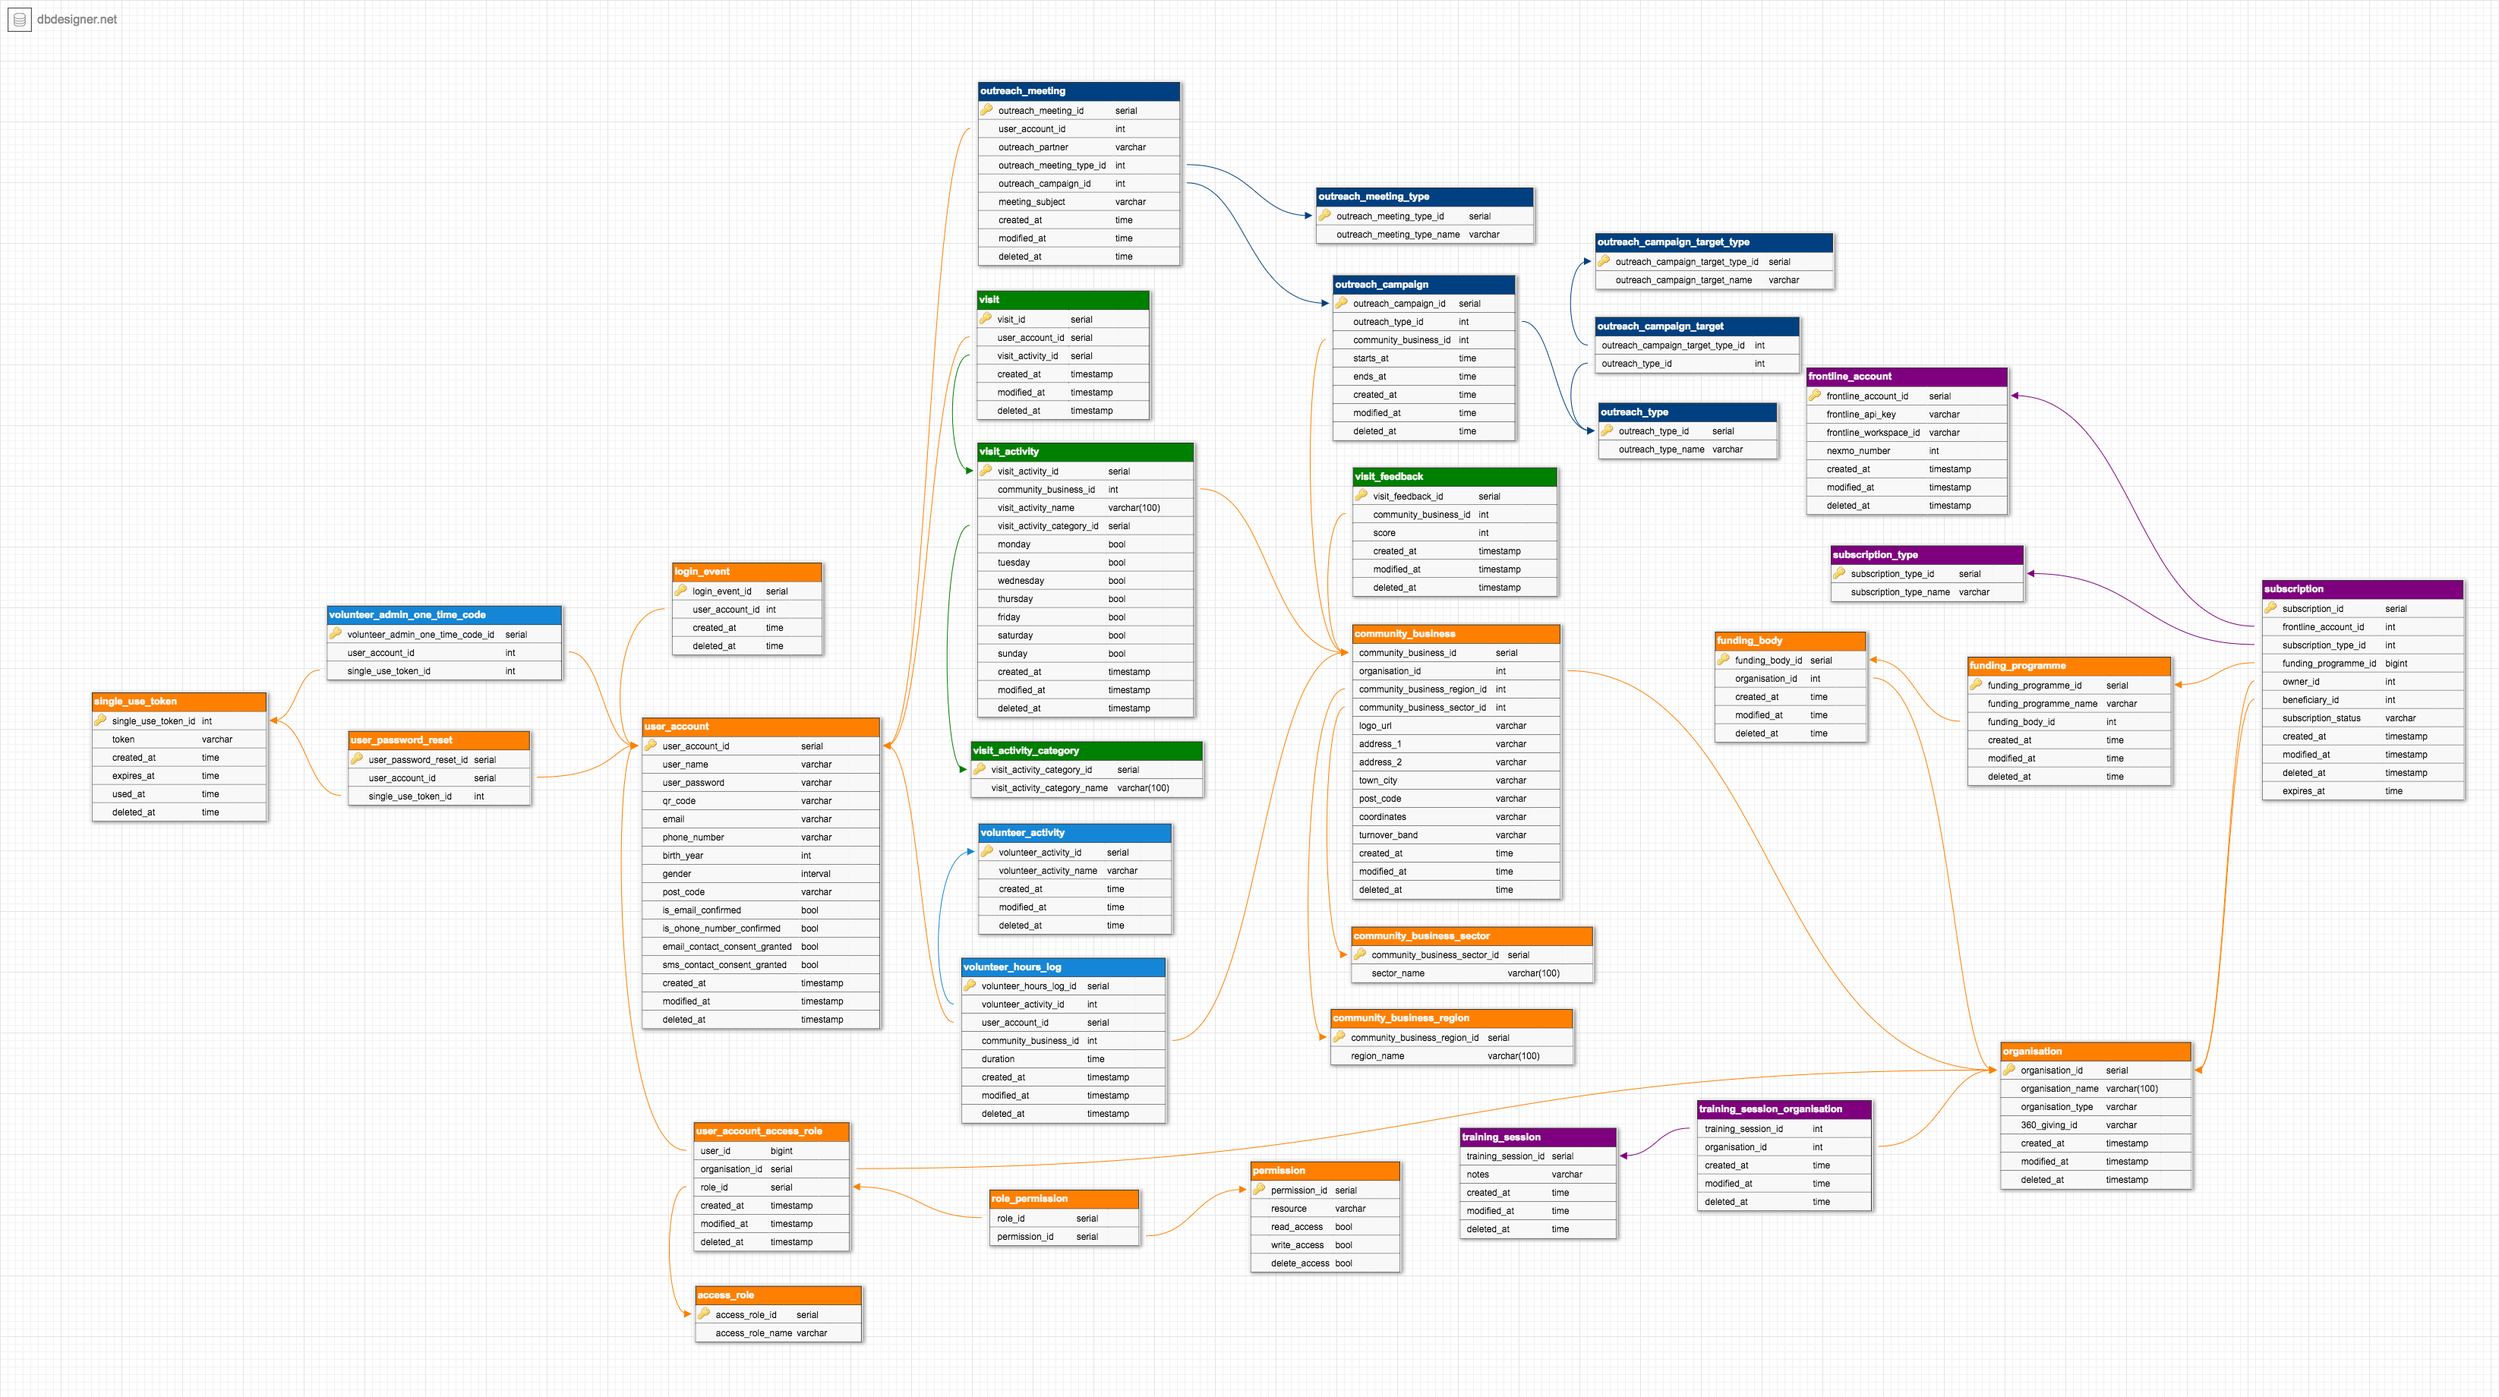
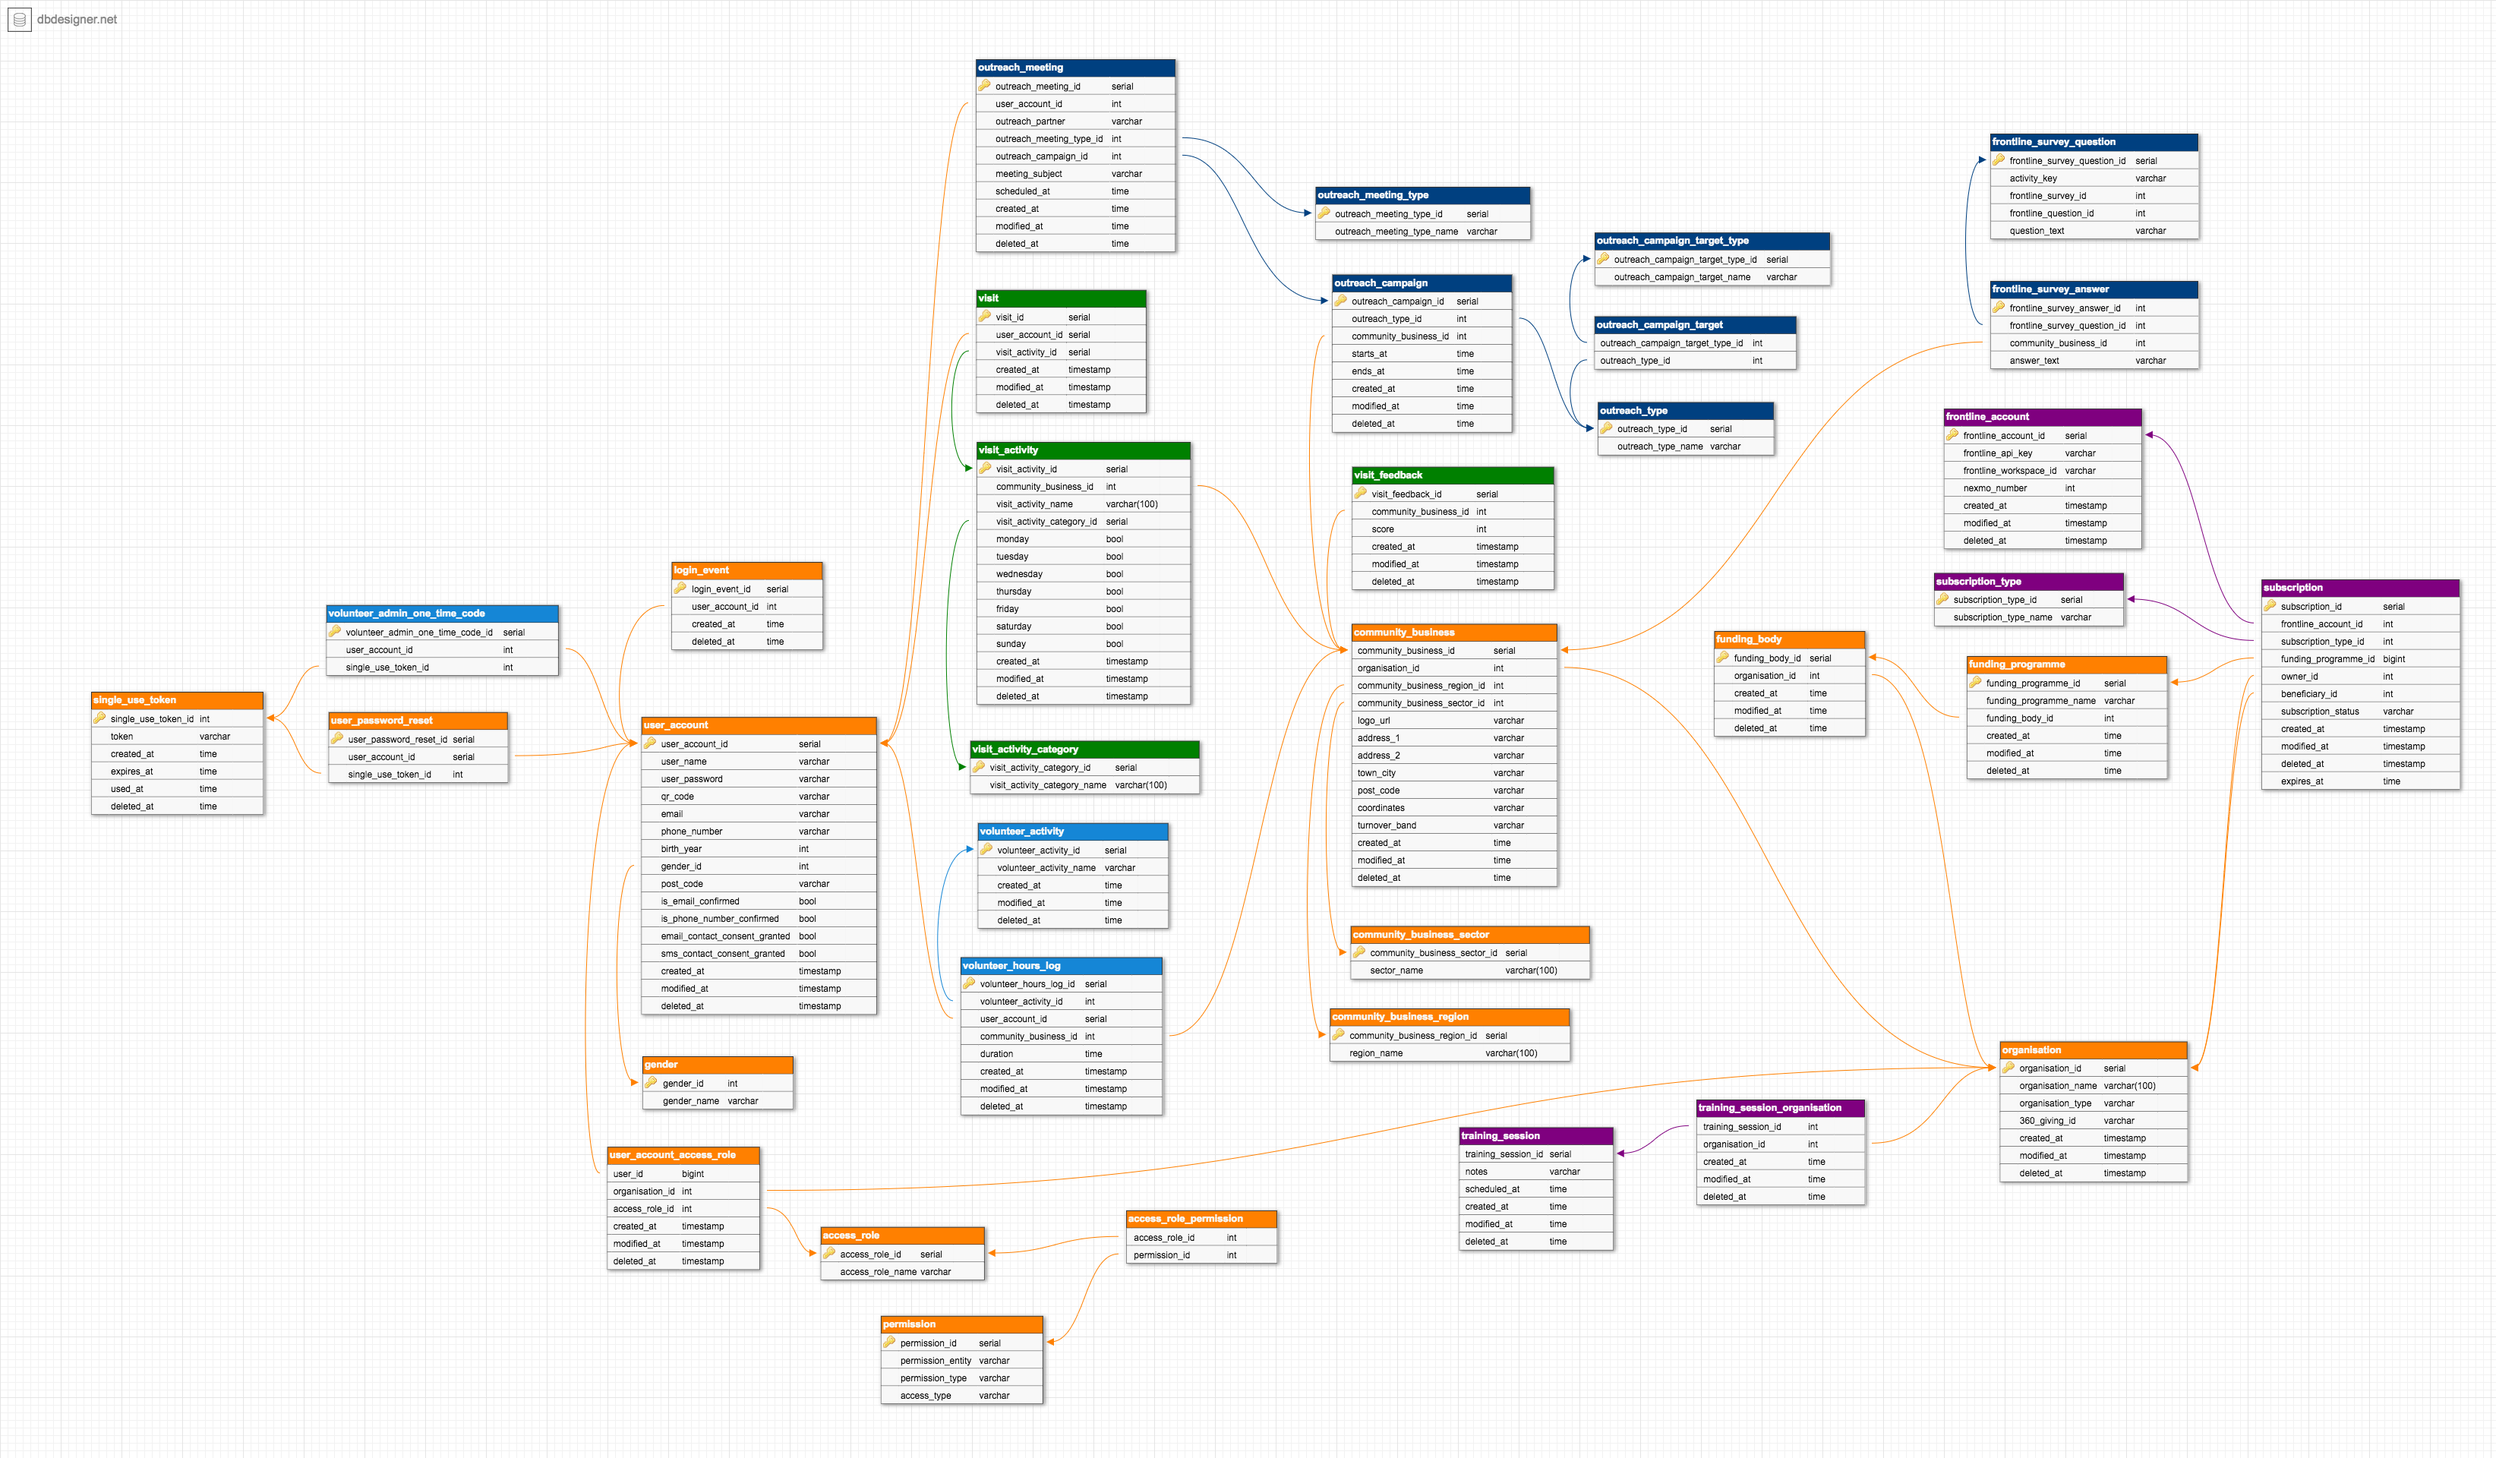
📝 update data model documentation
Update the schema diagram

Changed region(s): [[0.031, 0.031, 0.993, 0.9603]]

diff --git a/docs/database.md b/docs/database.md
@@ -4,6 +4,8 @@
 
 ![[Current data model]](./assets/data_model.png)
 
+Note: the data types in the diagram are for illustration purposes only. For the real data types, see the [migrations](../database/migrations/sql).
+
 This diagram was generated using [DB designer](https://dbdesigner.net). Ask for login details to edit the diagram.
 
 
